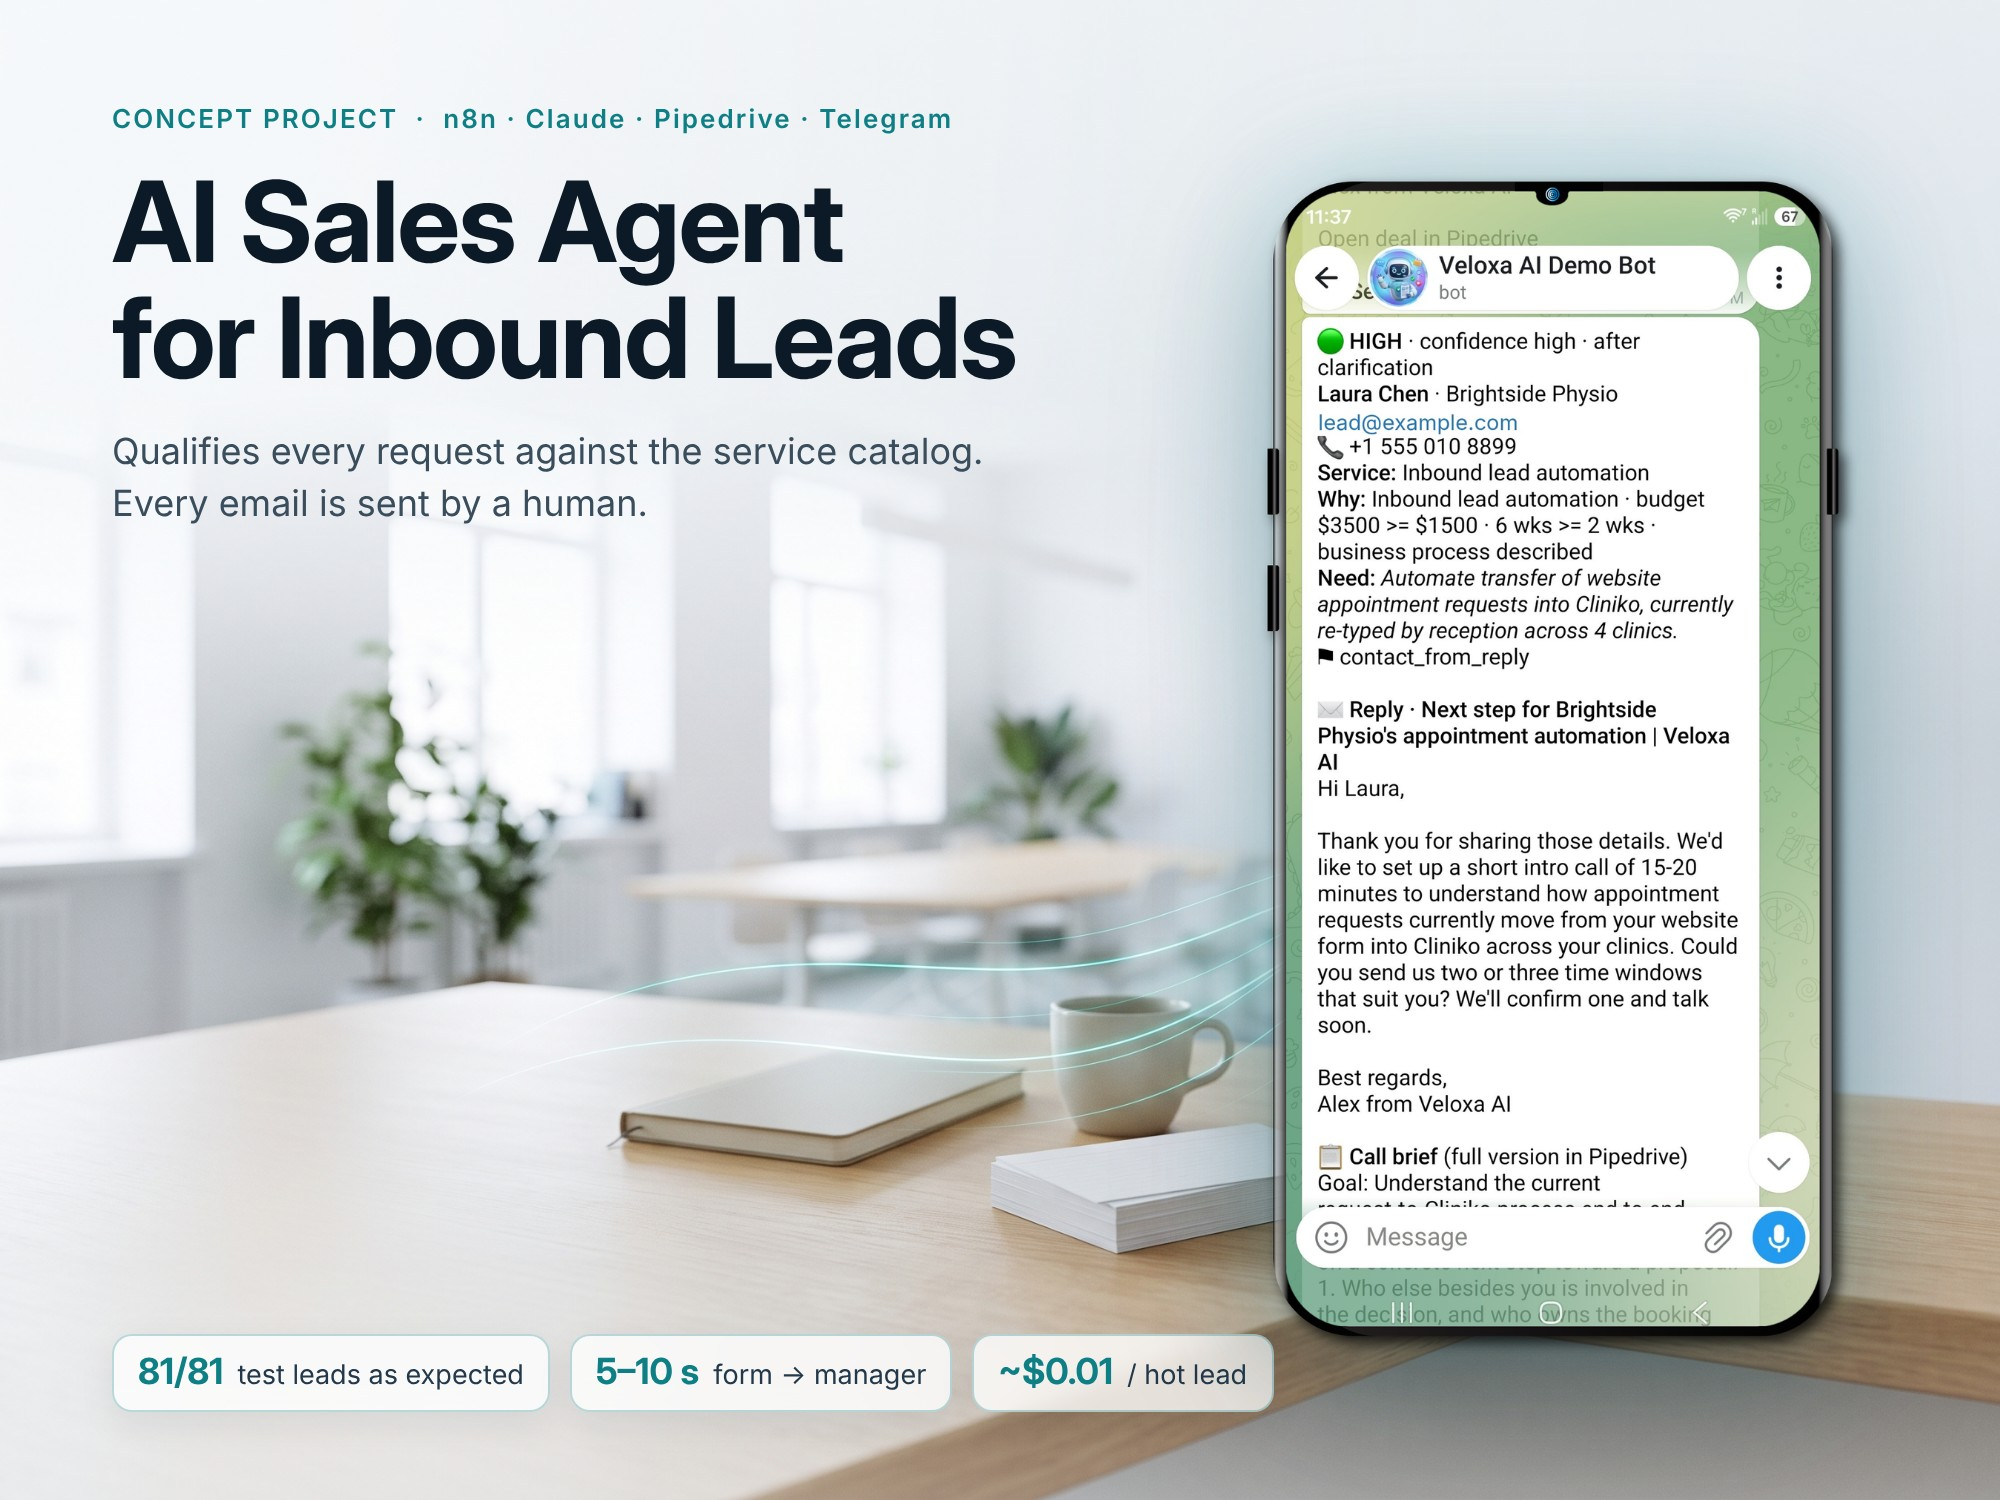
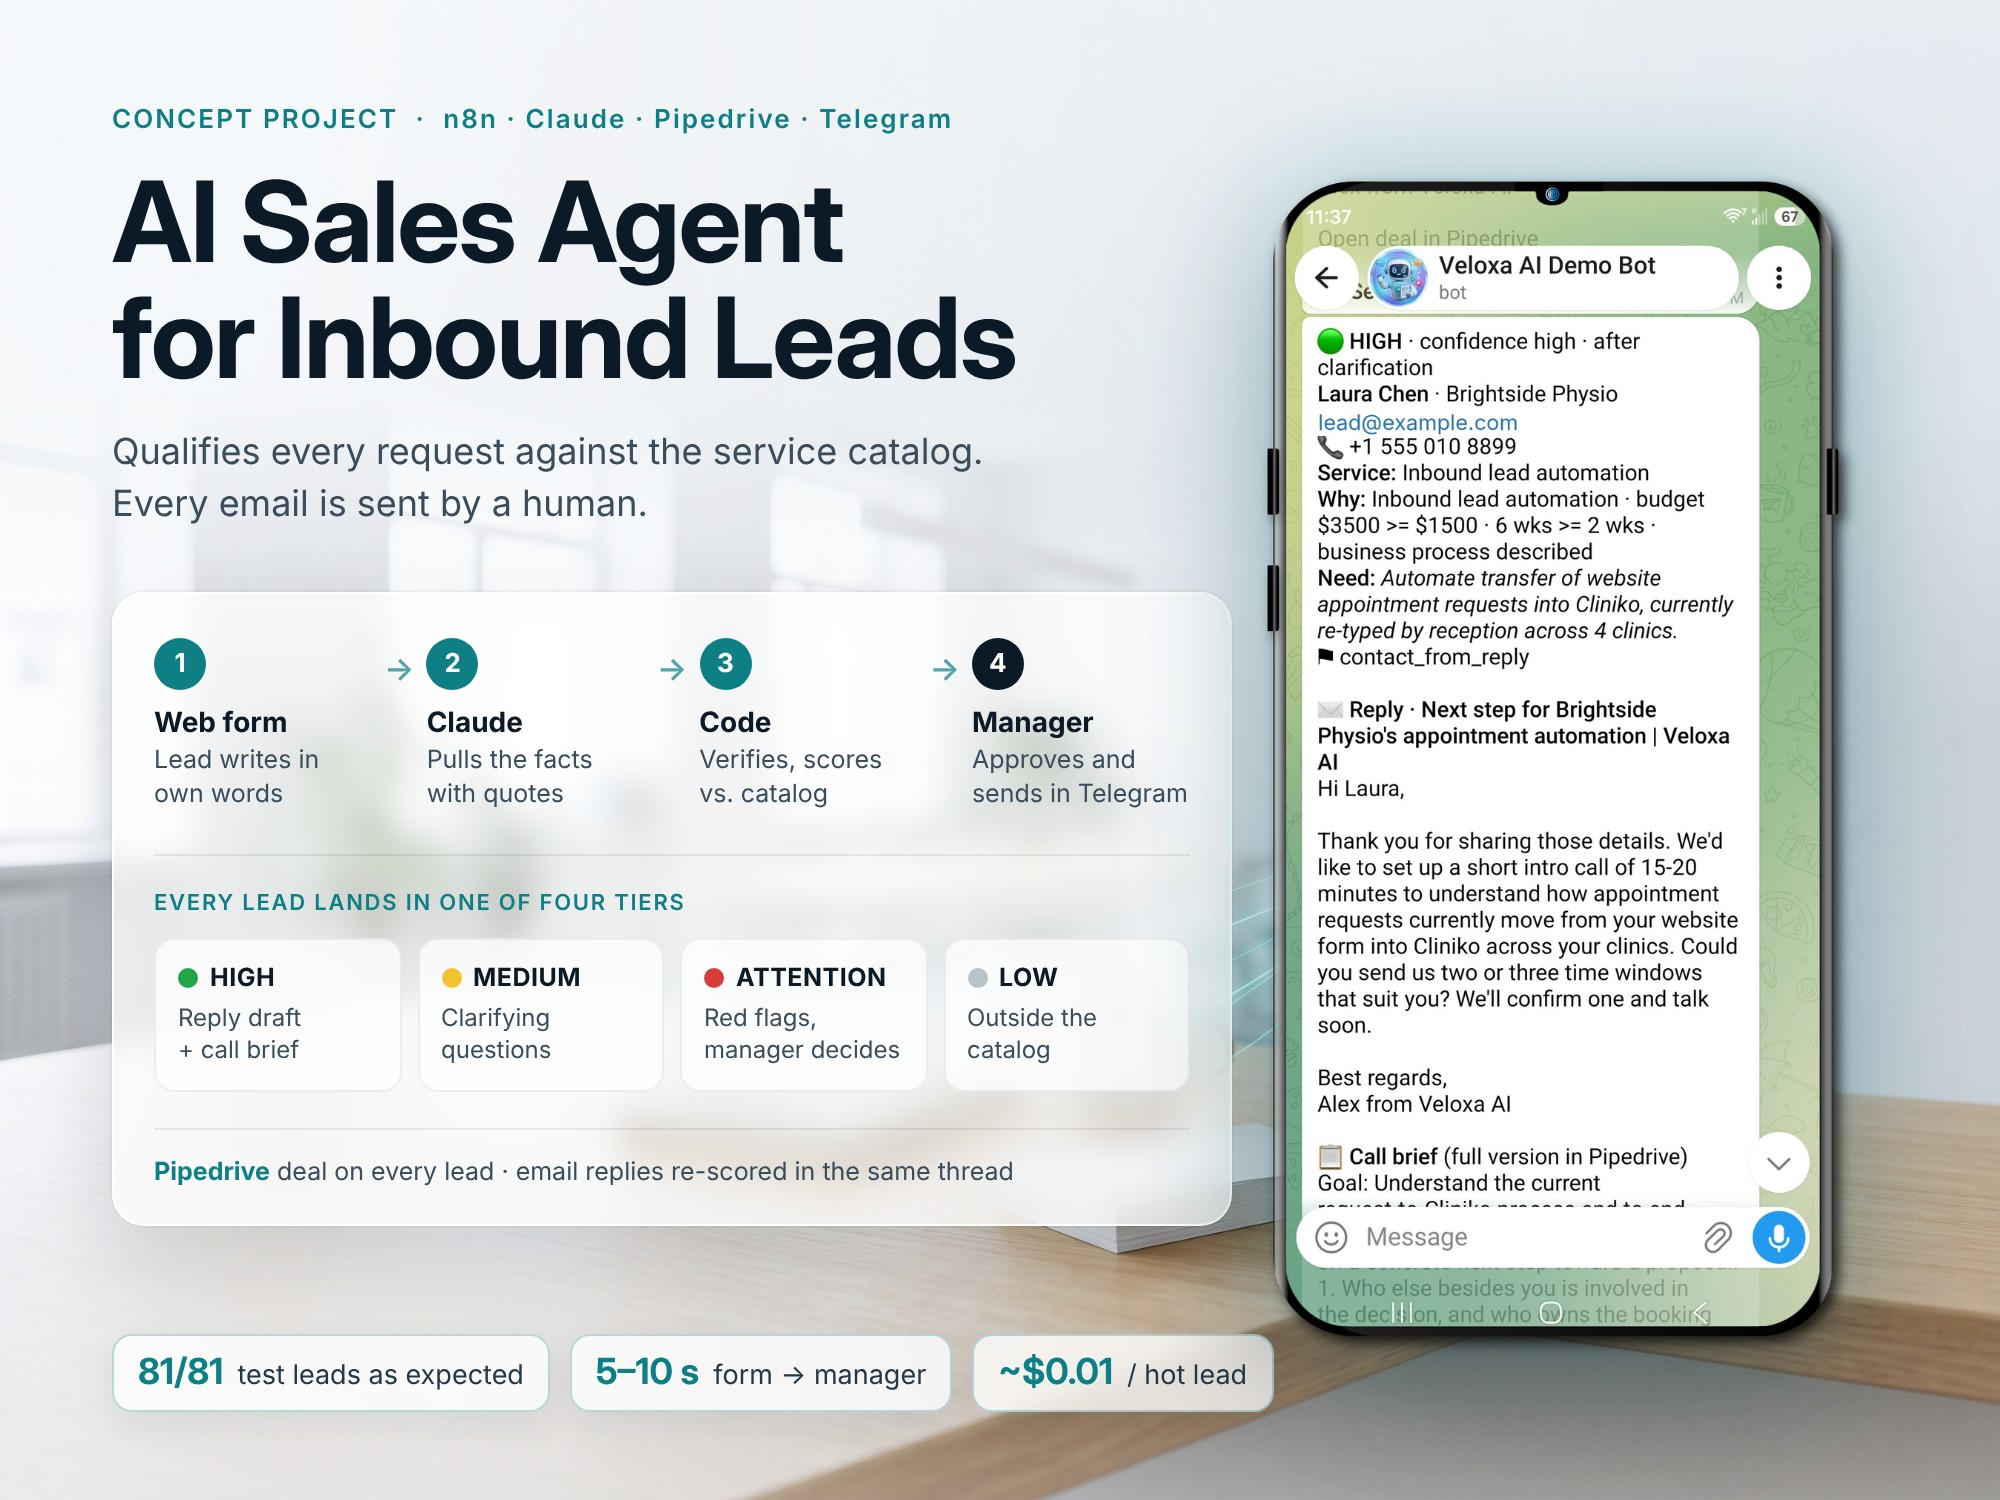
Cover with process and tier diagram; wide 1200x627 version
Claude-Session: https://claude.ai/code/session_01PsZbZLYpcDBRhD5oVJBZo3

Changed region(s): [[0.031, 0.3987, 0.62, 0.828]]

diff --git a/README.md b/README.md
@@ -106,7 +106,7 @@ tests/results_runs.csv                 exploratory run + 3 counted runs (108 res
 form/index.html                        the web form (single file, posts JSON to the n8n webhook)
 docs/agent-flow.png                    how the agent works
 docs/cover.jpg                         portfolio cover
-docs/cover-social.jpg                  1280x640 social preview
+docs/cover-wide.jpg                    1200x627 wide cover (LinkedIn, social preview)
 docs/screenshots/                      Telegram, Pipedrive, form, n8n, test results
 ```
 
